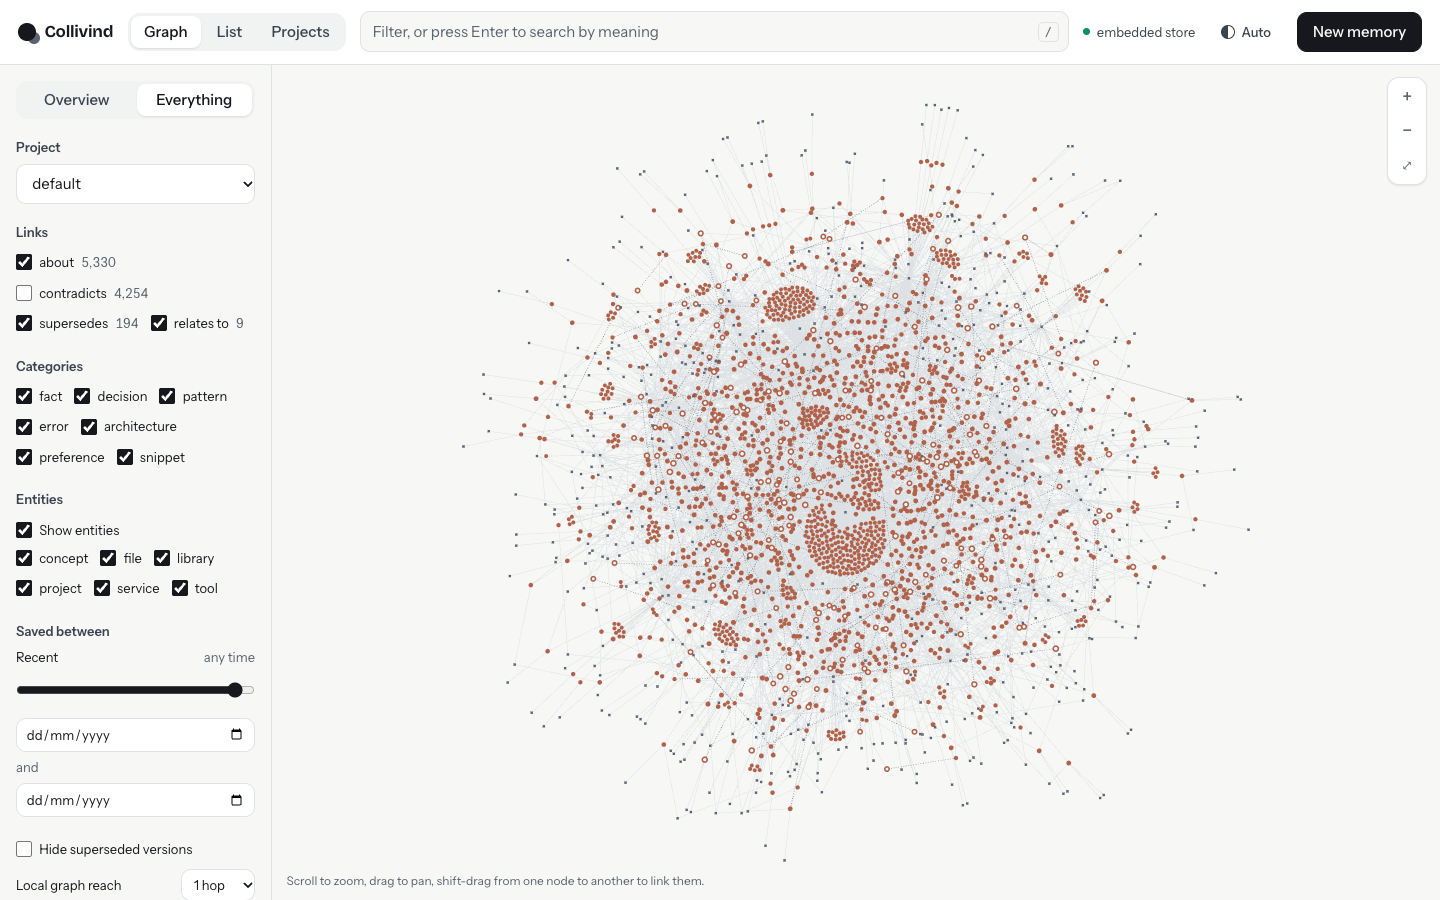
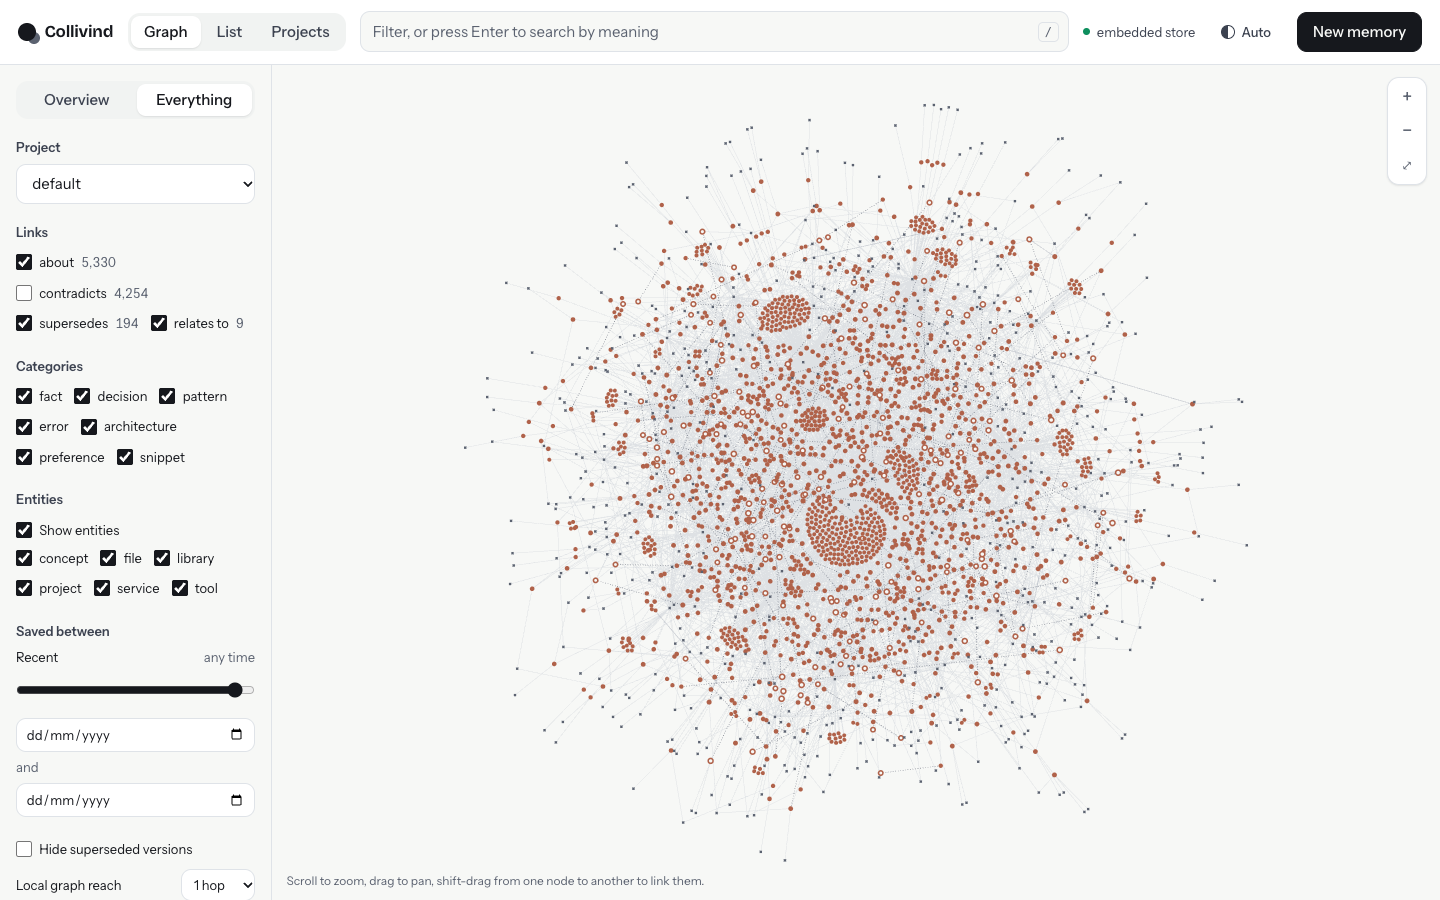
fix: keep every overview bubble openable on the real store's shape
Checked against the real store's graph (read-only). The top-level "not
about a top entity" bubble held 546 memories, and "only <hub>" inside the
biggest hub held 468. Both opened as a raw dump of nodes.

- The remainder bubble now recurses like any other.
- A bubble needs at least 1% of its parent's memories (and at least two).
- When the remainder would still be 75% or more, the level splits by
  category instead.
- Any node view still over 220 memories draws the newest 220, with a note.
- The project level is skipped when one project holds 90% or more of the
  memories.
- On the real graph every leaf is now 210 memories or fewer, at most four
  clicks deep.

Also:
- Revert the Barnes-Hut theta change: it measured slower, and the worker
  already keeps frames in budget.
- Typing in the filter box no longer dims every bubble.
- Focusing a node no longer makes the List run a search for its label.
- The node check inlines overview.js, so it runs on any Node with ESM.

Changed region(s): [[0.375, 0.2178, 0.8125, 0.8711]]

diff --git a/src/collivind/web/static/app.js b/src/collivind/web/static/app.js
@@ -5,7 +5,7 @@ import { CATEGORIES, card, editorMarkup, readEditor } from "./memory.js";
 import { GraphView } from "./graph.js";
 import { initPanel, openNode, closePanel, currentId, refreshPanel } from "./panel.js";
 import { initProjects, renderProjects } from "./projects.js";
-import { OPEN_LIMIT, OTHER, entityClusters, entityLinks, membersAt, openIds, projectClusters } from "./overview.js";
+import { CATEGORY, OPEN_LIMIT, OTHER, categoryClusters, entityClusters, entityLinks, membersAt, openIds, projectClusters } from "./overview.js";
 
 // Off until asked for: on a real store CONTRADICTS is ~40% of all edges, and
 // drawn by default it paints the whole graph red.
@@ -30,7 +30,7 @@ const state = {
   list: [], editingId: null, creating: false,
   knownTypes: new Set(),
   mode: "overview",      // "overview": bubbles that open; "all": every loaded node
-  path: [],              // opened overview bubbles, outermost first: entity ids, or OTHER
+  path: [],              // opened overview bubbles, outermost first: entity ids, OTHER, or CATEGORY + name
   edgeTypes: new Set(),  // relationship types drawn and walked
   knownEdgeTypes: new Set(),
   focusGraph: null,      // the neighbourhood of the search results, from the server
@@ -130,24 +130,36 @@ function overviewInputs(nodes, memIds, edges) {
   const entityById = new Map(f.showEntities
     ? nodes.filter((n) => n.kind === "entity" && f.entityTypes?.has(n.type)).map((n) => [n.id, n]) : []);
   const links = entityLinks(memIds, new Set(entityById.keys()), edges);
-  const projects = new Set(memories.map((m) => m.project_id));
-  const project = f.project || (projects.size === 1 ? [...projects][0] : "");
-  return { memories, entityById, links, byProject: projects.size > 1, project };
+  const sizes = new Map();
+  for (const m of memories) sizes.set(m.project_id, (sizes.get(m.project_id) || 0) + 1);
+  const [biggest, most = 0] = [...sizes].sort((a, b) => b[1] - a[1])[0] || [];
+  // A project level is only worth a click when no one project is nearly all
+  // of it; otherwise open on that project's entities, the rest via the picker.
+  const byProject = !f.project && sizes.size > 1 && most < memories.length * 0.9;
+  const project = f.project || (byProject ? "" : biggest || "");
+  return { memories, entityById, links, byProject, project };
 }
 
-const crumbLabel = (key, i) => key !== OTHER ? state.byId.get(key)?.label || key
-  : i ? `Only ${state.byId.get(state.path[i - 1])?.label || "that"}` : "Not about a top entity";
+function crumbLabel(key, i) {
+  if (key.startsWith(CATEGORY)) return key.slice(CATEGORY.length);
+  if (key !== OTHER) return state.byId.get(key)?.label || key;
+  const prev = state.path[i - 1];
+  return prev && prev !== OTHER && !prev.startsWith(CATEGORY) ? `Only ${state.byId.get(prev)?.label || prev}` : "Not about a top entity";
+}
 
 // The bubbles for where the reader is; null when the opened bubble is small
 // enough to draw node by node (or would only split into one bubble again).
 function overviewBubbles(o) {
   if (o.byProject) return projectClusters(o.memories, o.links, (pid) => projectName(pid, state.meta));
   const { members, opened } = membersAt(state.path, o.memories, o.links);
-  const last = state.path[state.path.length - 1];
-  if (state.path.length && (members.length <= OPEN_LIMIT || last === OTHER)) return null;
-  const restLabel = state.path.length ? `Only ${crumbLabel(last, state.path.length - 1)}` : "Not about a top entity";
+  if (state.path.length && members.length <= OPEN_LIMIT) return null;
+  const restLabel = crumbLabel(OTHER, state.path.length);
   const bubbles = entityClusters(members, o.links, o.entityById, o.project, opened, restLabel);
-  return bubbles.nodes.length > 1 || !state.path.length ? bubbles : null;
+  const rest = bubbles.nodes.find((n) => n.key === OTHER)?.count || 0;
+  if (!state.path.length || (bubbles.nodes.length > 1 && rest < members.length * 0.75)) return bubbles;
+  // little shared left to split by: categories, once
+  const byCategory = categoryClusters(members, o.project);
+  return byCategory.nodes.length > 1 && !state.path.some((k) => k.startsWith(CATEGORY)) ? byCategory : null;
 }
 
 function renderOverview(o, bubbles) {
@@ -183,9 +195,13 @@ function applyFilters() {
     (n.kind === "entity" && reached.has(n.id) && f.entityTypes?.has(n.type))).map((n) => n.id));
 
   // An opened bubble: its memories and the entities they share, nothing else.
+  // Still too many to read (nothing left to split by): the newest of them.
+  state.capped = 0;
   if (o) {
     const { members, opened } = membersAt(state.path, o.memories, o.links);
-    const open = openIds(members, o.links, opened);
+    const newest = [...members].sort((a, b) => (b.created_at || "").localeCompare(a.created_at || "")).slice(0, OPEN_LIMIT);
+    state.capped = members.length > newest.length ? members.length : 0;
+    const open = openIds(newest, o.links, opened);
     ids = new Set([...ids].filter((id) => open.has(id)));
   }
 
@@ -243,9 +259,9 @@ function renderCrumbs() {
     crumbs.push([`Around “${state.search.query.slice(0, 40)}”`, null], ["Clear search", "clear"]);
   } else if (state.mode === "overview") {
     const multi = state.projects.filter((p) => p.memories).length > 1;
-    if (multi) crumbs.push(["All projects", state.filters.project || state.path.length ? "root" : null]);
-    if (state.filters.project) crumbs.push([projectName(state.filters.project, state.meta), state.path.length ? "0" : null]);
-    else if (!multi) crumbs.push(["Overview", state.path.length ? "0" : null]);
+    if (multi && state.filters.project) crumbs.push(["All projects", "root"]);
+    crumbs.push([state.filters.project ? projectName(state.filters.project, state.meta) : multi ? "All projects" : "Overview",
+      state.path.length ? "0" : null]);
     state.path.forEach((key, i) => crumbs.push([crumbLabel(key, i), i < state.path.length - 1 ? String(i + 1) : null]));
     if (!crumbs.length) crumbs.push(["Overview", null]);
   }
@@ -271,6 +287,7 @@ function renderNote() {
   const shownMem = state.visible.filter((n) => n.kind === "memory").length;
   const shownEnt = state.visible.length - shownMem;
   const parts = [`Showing ${shownMem} of ${g.total_memories} memories and ${shownEnt} entities.`];
+  if (state.capped) parts.push(`Showing the newest ${OPEN_LIMIT} of ${state.capped} memories here; narrow with Recent or the List view.`);
   if (state.focusGraph) parts.push(`Search results and what is within ${state.depth} hop${state.depth > 1 ? "s" : ""} of them.`);
   else if (g.truncated) {
     parts.push(state.filters.project
@@ -298,7 +315,7 @@ function updateHighlight() {
       .map((n) => ({ id: n.id, label: n.label, sub: n.kind === "entity" ? n.type : n.category, kind: n.kind }));
     heading = `Matching “${state.text}”`;
   }
-  view.setHighlight(hits.length ? new Set(hits.map((h) => h.id)) : null);
+  view.setHighlight(hits.length && !state.overview ? new Set(hits.map((h) => h.id)) : null);
   if (!heading) { results.innerHTML = ""; return; }
   results.innerHTML = `<h3>${esc(heading)}</h3>` + (hits.length
     ? `<ul>${hits.map((h) => `<li><button class="result" data-node="${esc(h.id)}">
@@ -337,10 +354,13 @@ async function refocus({ apply = true } = {}) {
   if (apply) applyFilters();
 }
 
+// The words the reader searched for; a focused node is not a search.
+const searchText = () => (state.search && !state.search.focus ? state.search.query : "");
+
 // Show one node and its neighbourhood, wherever the view currently is.
 function focusOn(id) {
   const n = state.byId.get(id);
-  state.search = { query: n?.label || id, results: [{ id, label: n?.label || id, kind: n?.kind === "entity" ? n.type : n?.category }] };
+  state.search = { focus: true, query: n?.label || id, results: [{ id, label: n?.label || id, kind: n?.kind === "entity" ? n.type : n?.category }] };
   $("#q").value = "";
   // only once it is drawn: an unreachable id must not bounce back here
   refocus().then(() => { if (view.adj.has(id)) select(id, { center: true }); });
@@ -401,7 +421,7 @@ async function loadList() {
   try {
     clearError();
     const project = state.filters.project || "*";
-    const q = state.search?.query || "";
+    const q = searchText();
     const { sort, group, offset } = state.page;
     const params = new URLSearchParams({ limit: String(q ? 100 : PAGE), project, q, sort, group, offset: String(q ? 0 : offset) });
     const data = await api(`/api/memories?${params}`);
@@ -419,11 +439,11 @@ async function loadList() {
 function renderList() {
   const list = $("#list");
   const scope = state.filters.project ? projectName(state.filters.project, state.meta) : "every project";
-  $("#list-scope").textContent = state.search ? `Search results in ${scope}` : `Current memories in ${scope}`;
+  $("#list-scope").textContent = searchText() ? `Search results in ${scope}` : `Current memories in ${scope}`;
   const projectIds = [state.filters.project || "default", ...state.projects.map((p) => p.project_id)];
   if (!state.list.length && !state.creating) {
     // Empty state teaches the interface rather than saying "no results".
-    list.innerHTML = state.search ? `<div class="empty"><h2>No memory matches that</h2><p>Search compares meaning, not words. Try describing the idea, or widen the project.</p></div>`
+    list.innerHTML = searchText() ? `<div class="empty"><h2>No memory matches that</h2><p>Search compares meaning, not words. Try describing the idea, or widen the project.</p></div>`
       : `<div class="empty"><h2>Nothing stored yet</h2>
       <p>Memories arrive when your agent's session ends, or you can write one now.
       From a terminal: <code>collivind add "…"</code></p></div>`;
@@ -433,7 +453,7 @@ function renderList() {
   const { group } = state.page;
   const keyOf = (m) => group === "project" ? projectName(m.project_id, state.meta) : group === "category" ? m.category : "";
   // the server already orders a page by its group; search results are sorted here
-  const rows = group && state.search ? [...state.list].sort((a, b) => keyOf(a).localeCompare(keyOf(b))) : state.list;
+  const rows = group && searchText() ? [...state.list].sort((a, b) => keyOf(a).localeCompare(keyOf(b))) : state.list;
   let last = null;
   list.innerHTML = (state.creating ? `<article class="memory">${editorMarkup(null, [...new Set(projectIds)])}</article>` : "")
     + rows.map((m) => {
@@ -446,7 +466,7 @@ function renderList() {
 
 function renderPager() {
   const { offset, total } = state.page;
-  const paged = !state.search;
+  const paged = !searchText();
   $("#pager").hidden = !paged || !total;
   if (!paged) return;
   $("#l-range").textContent = `${(offset + 1).toLocaleString()}–${(offset + state.list.length).toLocaleString()} of ${total.toLocaleString()}`;
@@ -464,7 +484,7 @@ function wireList() {
     if (state.byId.has(id)) select(id, { center: true });
     else {
       const m = state.list.find((x) => x.id === id);
-      state.search = { query: m?.summary || id, results: [{ id, label: m?.summary }] };
+      state.search = { focus: true, query: m?.summary || id, results: [{ id, label: m?.summary }] };
       refocus().then(() => { if (view.adj.has(id)) select(id, { center: true }); });
     }
   });
@@ -678,5 +698,6 @@ matchMedia("(prefers-color-scheme: dark)").addEventListener("change", () => view
   try { await loadProjects(); } catch (e) { showError(e); }
   await loadGraph();
 })();
+
 
 

diff --git a/src/collivind/web/static/overview.js b/src/collivind/web/static/overview.js
@@ -9,6 +9,7 @@
 
 export const TOP_ENTITIES = 40;
 export const OTHER = "__other";
+export const CATEGORY = "cat:"; // path key prefix: memories of one category
 const STRONGEST = 3;      // links kept per bubble; more and the overview is a hairball again
 const MIN_SHARED = 2;     // an entity opened alongside must be shared by this many memories
 export const OPEN_LIMIT = 220; // more members than this and a bubble opens into bubbles
@@ -82,9 +83,7 @@ export function projectClusters(memories, links, nameOf) {
 // Level 2: the entities most memories are about, plus one bubble for the rest.
 // `exclude` are the entities already opened: every member links to them.
 export function entityClusters(memories, links, entityById, projectId, exclude = new Set(), restLabel = "Not about a top entity") {
-  const counts = new Map();
-  for (const m of memories) for (const x of links.get(m.id) || []) if (!exclude.has(x)) counts.set(x, (counts.get(x) || 0) + 1);
-  const top = [...counts].sort((a, b) => b[1] - a[1]).slice(0, TOP_ENTITIES);
+  const top = topCounts(memories, links, exclude);
   const topIds = new Set(top.map(([x]) => `e:${x}`));
   const weights = new Map();
   let rest = 0;
@@ -99,13 +98,24 @@ export function entityClusters(memories, links, entityById, projectId, exclude =
   return { nodes: pack(nodes), edges: strongest(weights) };
 }
 
+// Last resort for memories that share no entity left to split by: their
+// categories. Never linked: a memory has exactly one.
+export function categoryClusters(memories, projectId) {
+  const counts = new Map();
+  for (const m of memories) counts.set(m.category, (counts.get(m.category) || 0) + 1);
+  const nodes = [...counts].map(([c, n]) => cluster(`c:${c}`, c, n, { level: "category", key: CATEGORY + c, project_id: projectId }));
+  return { nodes: pack(nodes), edges: [] };
+}
+
 // Follow a path of opened bubbles down to the memories in the last one.
 // OTHER at a step means "about none of the bubbles shown at that step".
 export function membersAt(path, memories, links) {
   let members = memories;
   const opened = new Set();
   for (const key of path) {
-    if (key === OTHER) {
+    if (key.startsWith(CATEGORY)) {
+      members = members.filter((m) => m.category === key.slice(CATEGORY.length));
+    } else if (key === OTHER) {
       const top = topKeys(members, links, opened);
       members = members.filter((m) => ![...(links.get(m.id) || [])].some((x) => top.has(x)));
     } else {
@@ -116,11 +126,16 @@ export function membersAt(path, memories, links) {
   return { members, opened };
 }
 
-function topKeys(memories, links, exclude) {
+// The entities worth a bubble: the most-linked few, each holding at least 1%
+// of the memories (and two), so a big remainder does not split into specks.
+function topCounts(memories, links, exclude) {
   const counts = new Map();
   for (const m of memories) for (const x of links.get(m.id) || []) if (!exclude.has(x)) counts.set(x, (counts.get(x) || 0) + 1);
-  return new Set([...counts].sort((a, b) => b[1] - a[1]).slice(0, TOP_ENTITIES).map(([x]) => x));
+  const least = Math.max(MIN_SHARED, Math.ceil(memories.length * 0.01));
+  return [...counts].filter(([, n]) => n >= least).sort((a, b) => b[1] - a[1]).slice(0, TOP_ENTITIES);
 }
+
+const topKeys = (memories, links, exclude) => new Set(topCounts(memories, links, exclude).map(([x]) => x));
 
 // The ids to draw once a bubble is small enough: its memories and the
 // entities they share. Opened entities are left out: every member links to

diff --git a/src/collivind/web/static/layout.js b/src/collivind/web/static/layout.js
@@ -2,7 +2,7 @@
 // edges, and a weak pull to the origin so disconnected islands stay in view.
 // The same model as d3-force's manyBody/link/x/y, at a fraction of the size.
 
-const THETA2 = 1.44;        // Barnes-Hut opening criterion squared (theta 1.2): coarser far field, ~2x faster ticks at 4k nodes
+const THETA2 = 0.81;        // Barnes-Hut opening criterion squared (theta 0.9)
 const CHARGE = -38;
 const LINK_DIST = 34;
 const GRAVITY = 0.035;

diff --git a/tests/unit/test_web_overview.py b/tests/unit/test_web_overview.py
@@ -1,5 +1,7 @@
 """The overview's clustering is plain JS with no DOM, so node checks it directly.
-Skipped where node is not installed; the Python side has no copy of this logic."""
+Skipped where node is not installed; the Python side has no copy of this logic.
+The module's source is inlined rather than imported, so any node that runs ES
+modules from -e will do, not only the ones that import a bare .js file as ESM."""
 
 import shutil
 import subprocess
@@ -11,15 +13,16 @@ from collivind.web.server import STATIC
 NODE = shutil.which("node")
 
 SCRIPT = """
-import { entityLinks, entityClusters, membersAt, openIds, pack, projectClusters, OTHER } from "%s";
 const assert = (ok, msg) => { if (!ok) { console.error(msg); process.exit(1); } };
 
 // 30 memories about "hub", every third also about "side", one about nothing
-const mems = Array.from({ length: 31 }, (_, i) => ({ id: `m${i}`, kind: "memory", project_id: i < 20 ? "a" : "b" }));
+const mems = Array.from({ length: 31 }, (_, i) => ({
+  id: `m${i}`, kind: "memory", project_id: i < 20 ? "a" : "b", category: i % 2 ? "fact" : "error",
+}));
 const edges = [];
 for (let i = 0; i < 30; i++) {
   edges.push({ source: `m${i}`, target: "hub", type: "ABOUT" });
-  if (i %% 3 === 0) edges.push({ source: `m${i}`, target: "side", type: "ABOUT" });
+  if (i % 3 === 0) edges.push({ source: `m${i}`, target: "side", type: "ABOUT" });
 }
 const ents = new Map([["hub", { id: "hub", label: "Hub" }], ["side", { id: "side", label: "Side" }]]);
 const links = entityLinks(new Set(mems.map((m) => m.id)), new Set(ents.keys()), edges);
@@ -40,11 +43,18 @@ assert(membersAt(["hub", OTHER], mems, links).members.length === 20, "only-hub m
 const ids = openIds(members, links, opened);
 assert(!ids.has("hub") && ids.has("side") && ids.size === 31, "open ids");
 
+// memories that share nothing left to split by fall back to their categories
+const onlyHub = membersAt(["hub", OTHER], mems, links).members;
+const cats = categoryClusters(onlyHub, "a");
+assert(cats.nodes.length === 2 && cats.nodes.reduce((t, n) => t + n.count, 0) === 20, "category bubbles");
+const fact = cats.nodes.find((n) => n.label === "fact");
+assert(membersAt(["hub", OTHER, fact.key], mems, links).members.length === fact.count, "category path");
+
 const projects = projectClusters(mems, links, (p) => p.toUpperCase());
 assert(projects.nodes.length === 2 && projects.edges.length === 1, "project bubbles share hub");
 
 // packed bubbles never overlap
-const packed = pack(Array.from({ length: 40 }, (_, i) => ({ id: `c${i}`, count: (i * 37) %% 500 + 1 })));
+const packed = pack(Array.from({ length: 40 }, (_, i) => ({ id: `c${i}`, count: (i * 37) % 500 + 1 })));
 for (const a of packed) for (const b of packed) {
   if (a !== b) assert(Math.hypot(a.x - b.x, a.y - b.y) >= a.r + b.r, `overlap ${a.id} ${b.id}`);
 }
@@ -54,7 +64,7 @@ console.log("ok");
 
 @pytest.mark.skipif(NODE is None, reason="node is not installed")
 def test_overview_clustering():
-    script = SCRIPT % (STATIC / "overview.js").as_uri()
+    script = (STATIC / "overview.js").read_text() + SCRIPT
     out = subprocess.run([NODE, "--input-type=module", "-e", script], capture_output=True, text=True, timeout=30)
     assert out.returncode == 0, out.stderr
     assert out.stdout.strip() == "ok"
